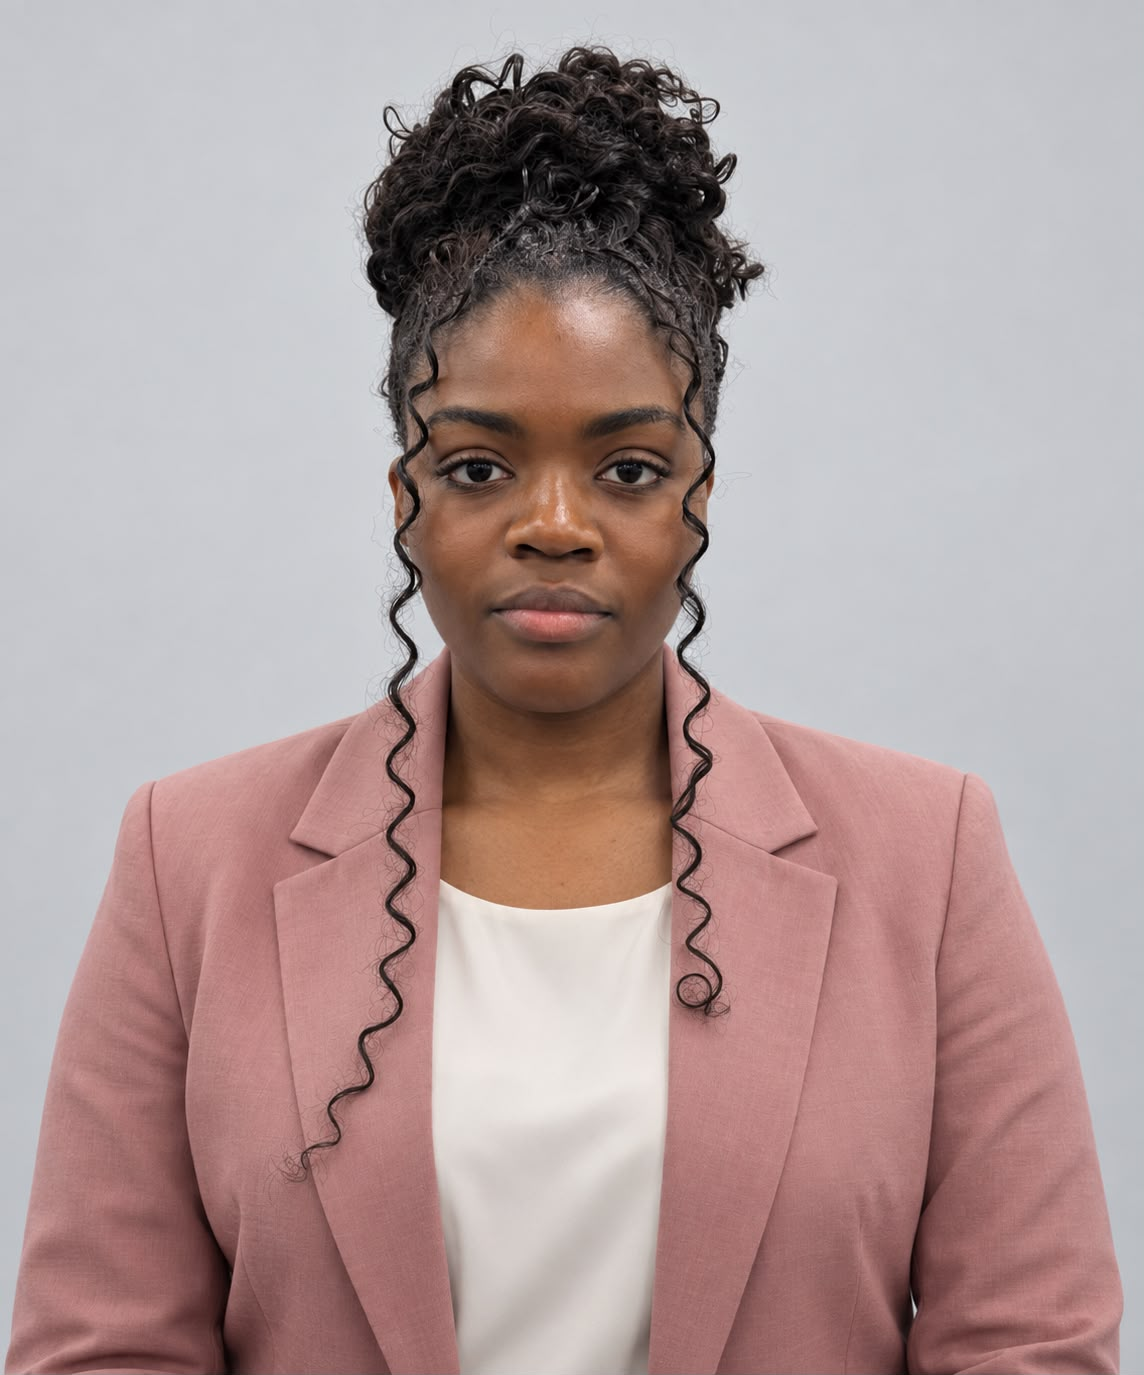
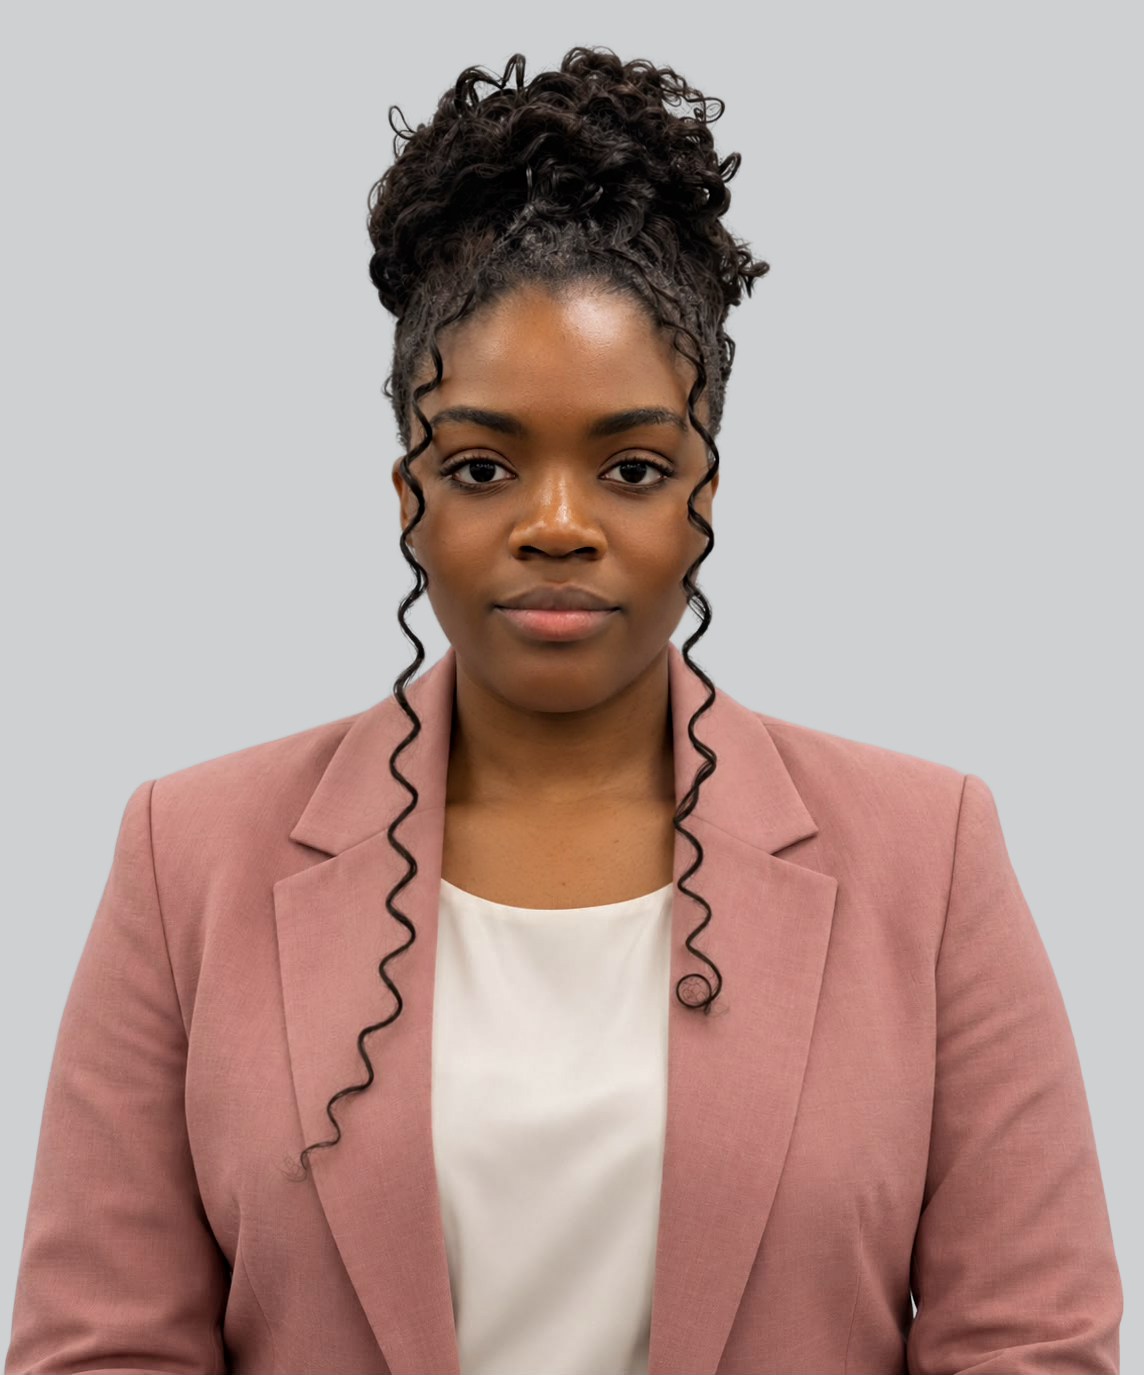
Update Alissa's and Ornella's leadership photos
Alissa: swapped in the new photo. Dimensions (1144x1375) and framing
match the previous file almost exactly, so no position changes needed.

Ornella: swapped in a new photo shot as a wider, full-torso portrait
rather than the tight headshot style used elsewhere. Added a
per-breakpoint-stable imagePosition ('center 15%' on the listing page,
'center 16%' on the profile page) calibrated against Giovanny's
headspace ratio so her crop reads consistently with the rest of the
Governance Board/Executive Team, on both the listing and profile
pages, across desktop/tablet/mobile.

diff --git a/app/about/leadership/page.tsx b/app/about/leadership/page.tsx
@@ -44,7 +44,7 @@ const governanceBoard = [
 
 const executiveTeam = [
   { name: 'Shifu Hammadina', role: 'Chief Program Officer',      roleFr: 'Directeur des Programmes',      bio: "Shifu leads the design, execution, and evaluation of all Gwags programs, translating the institution's strategy into measurable field impact.",        bioFr: "Shifu dirige la conception, l'exécution et l'évaluation de l'ensemble des programmes de Gwags, traduisant la stratégie de l'institution en impact mesurable sur le terrain.", linkedinUrl: 'https://www.linkedin.com/in/shifu-afayi-h-3708412a3/', image: '/images/leadership/shifu-hammadina.jpg' },
-  { name: 'Ornella Ebolo', role: 'Chief Communications Officer',  roleFr: 'Directeur de la Communication', bio: "Ornella oversees Gwags's communications strategy and public presence across all platforms.",                   bioFr: "Ornella supervise la stratégie de communication de Gwags et sa présence publique sur toutes les plateformes.", image: '/images/leadership/ornella-ebolo.jpg' },
+  { name: 'Ornella Ebolo', role: 'Chief Communications Officer',  roleFr: 'Directeur de la Communication', bio: "Ornella oversees Gwags's communications strategy and public presence across all platforms.",                   bioFr: "Ornella supervise la stratégie de communication de Gwags et sa présence publique sur toutes les plateformes.", image: '/images/leadership/ornella-ebolo.jpg', imagePosition: 'center 15%' },
 ]
 
 const historicalLeadershipData = {

diff --git a/app/about/leadership/[slug]/page.tsx b/app/about/leadership/[slug]/page.tsx
@@ -86,6 +86,7 @@ const PEOPLE: Record<string, { name: string; role: string; roleFr?: string; bio:
     roleFr: 'Directeur de la Communication',
     bio: "The Chief Communications Officer leads Gwags's external engagement, institutional communications, and the development of strategic partnerships.",
     image: '/images/leadership/ornella-ebolo.jpg',
+    imagePosition: 'center 16%',
   },
   'gloria-asopjio': {
     name: 'Gloria Asopjio',
